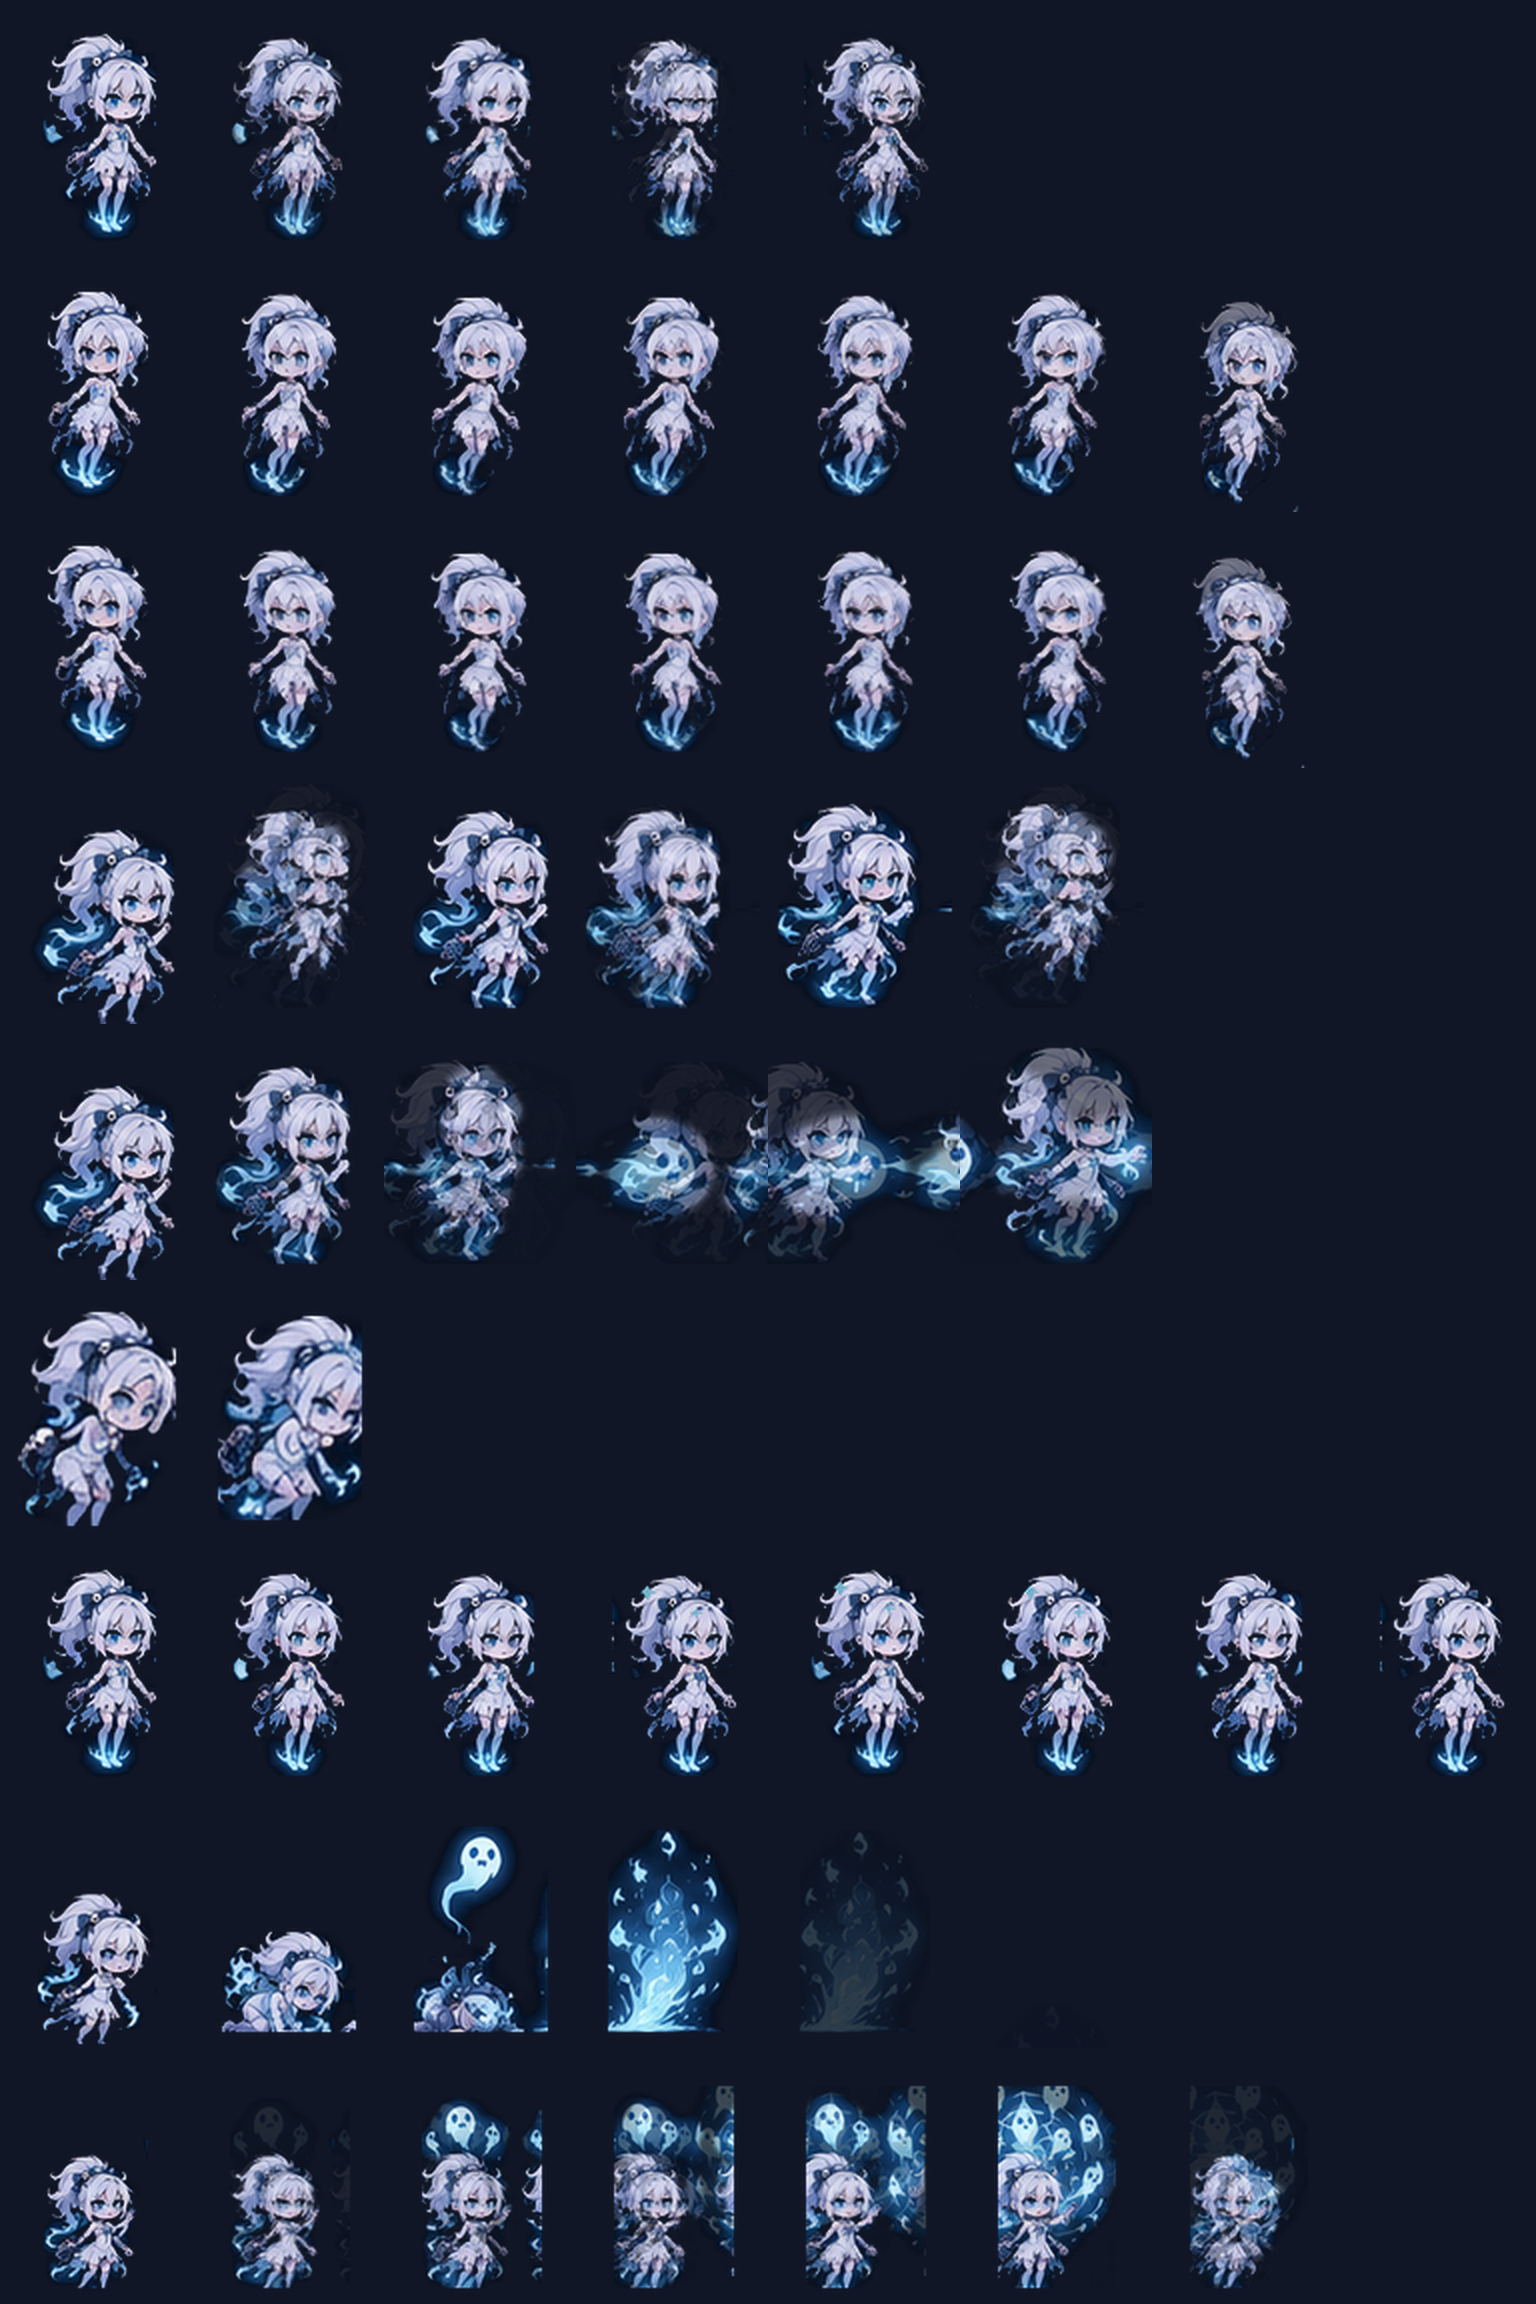
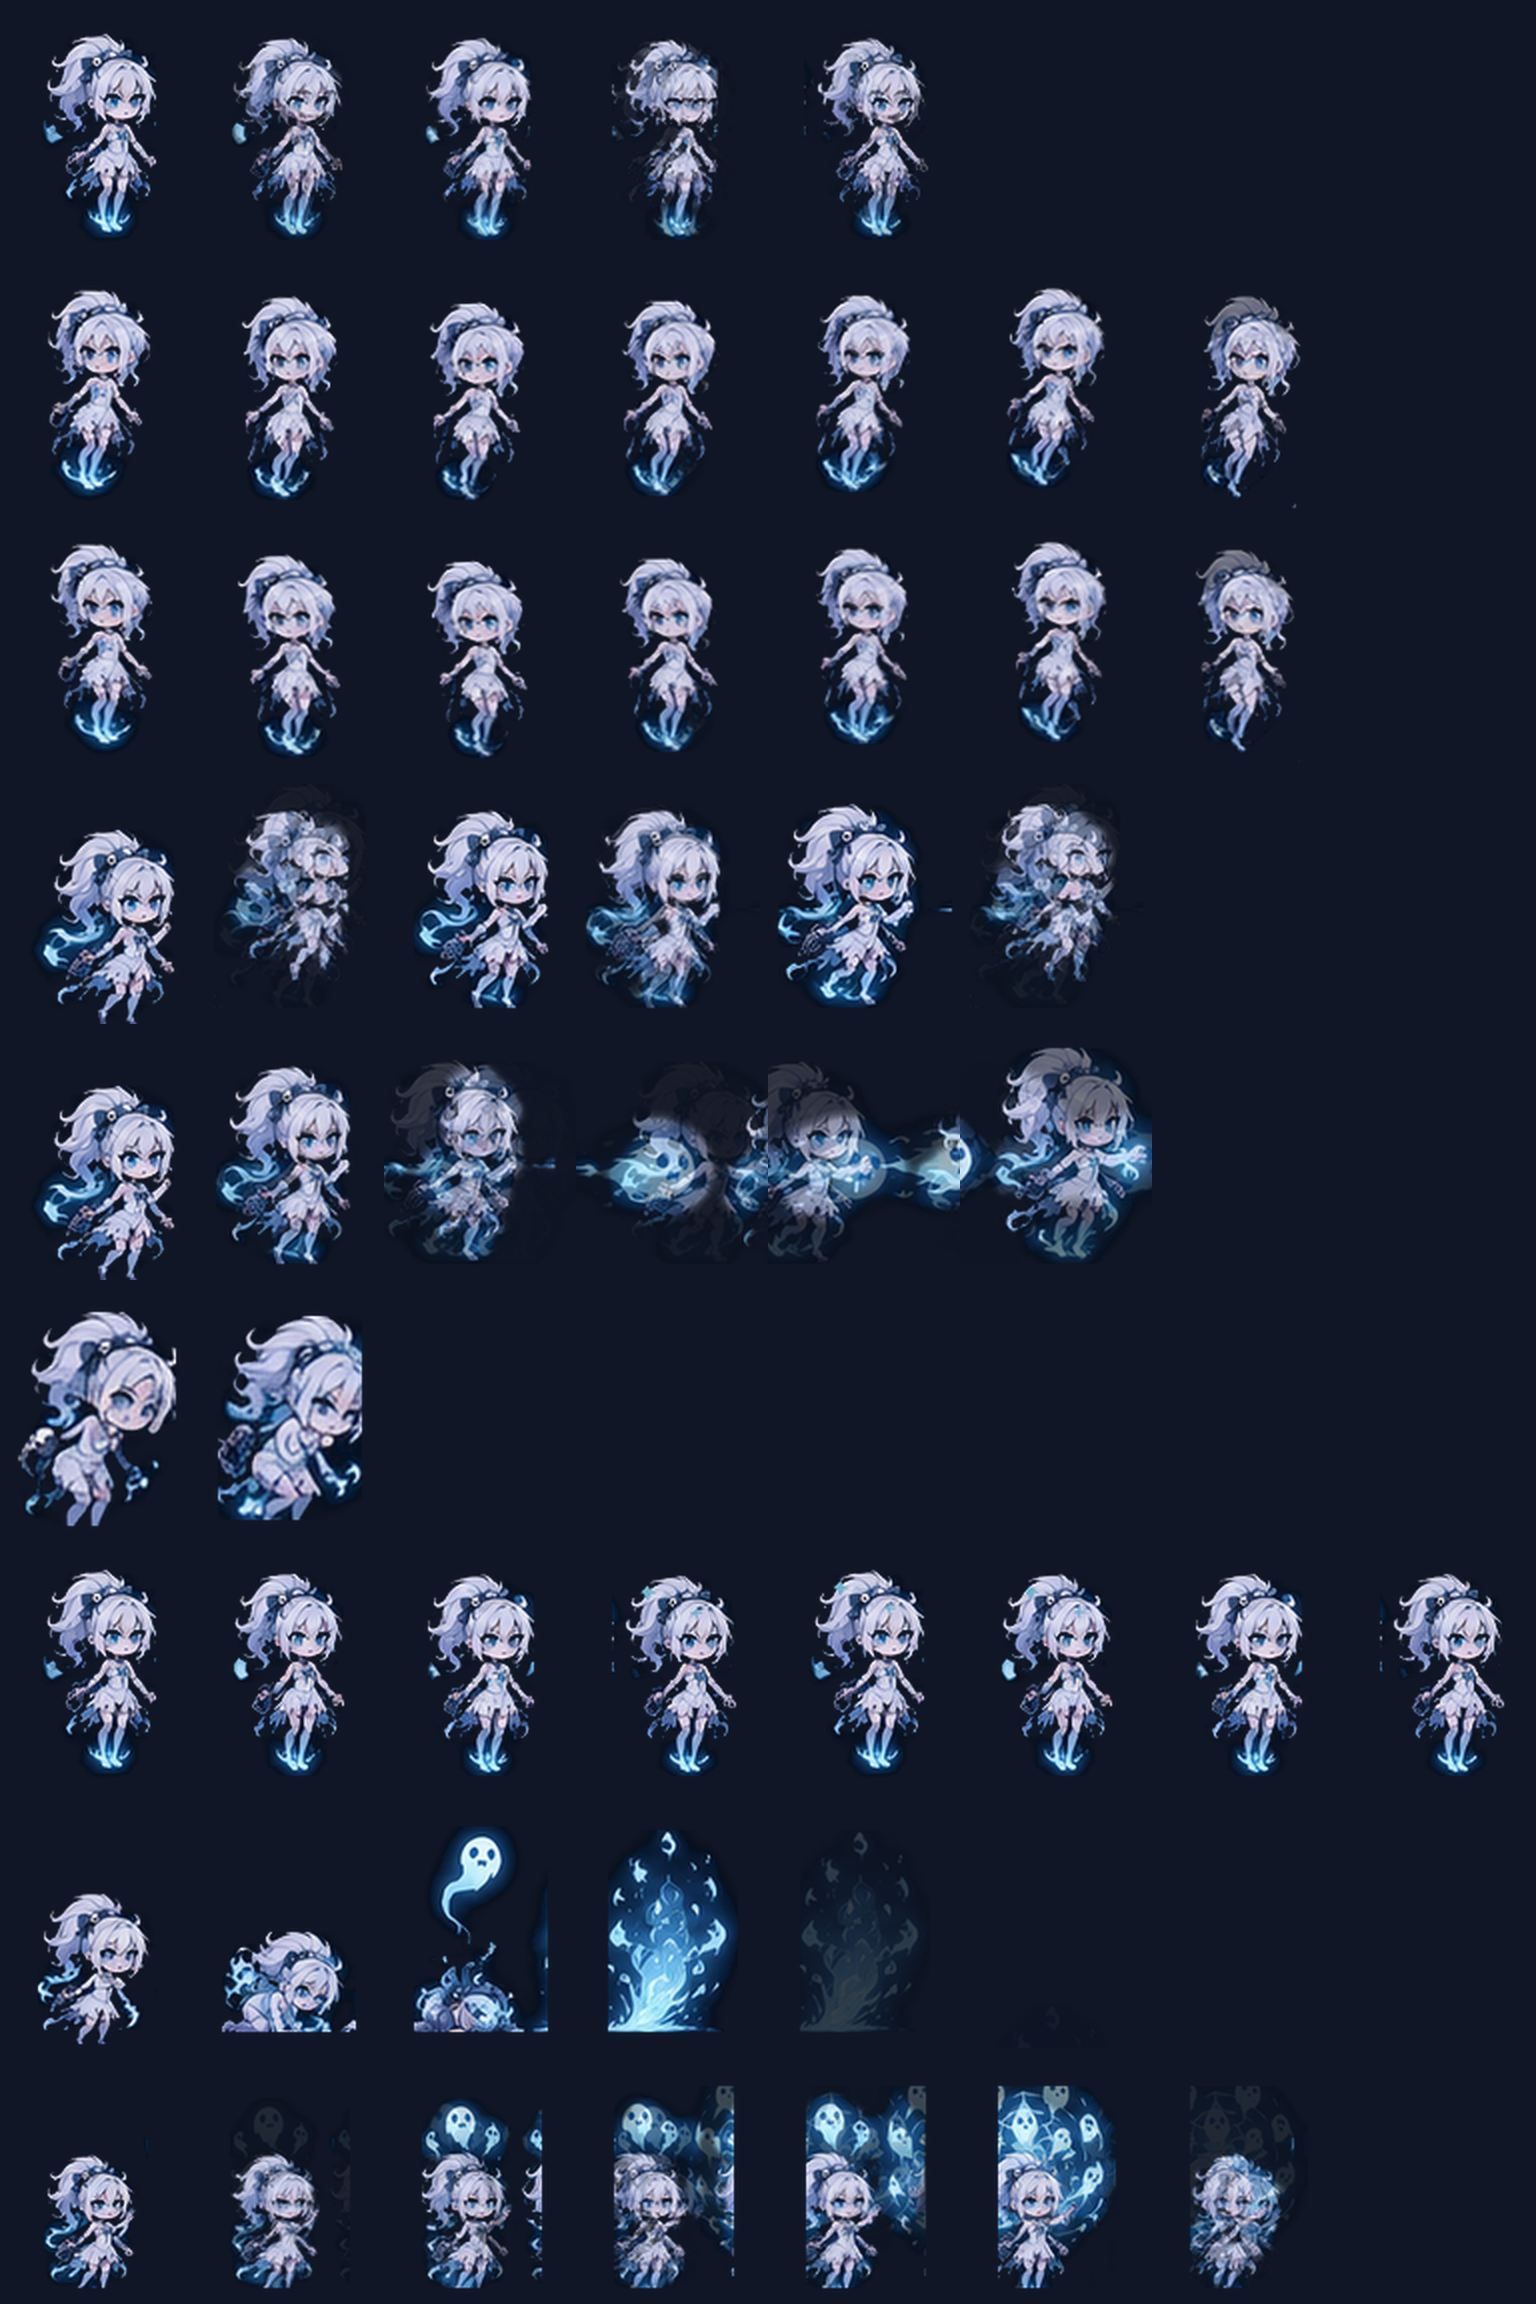
Improve Lilith spectral hover animation frames

diff --git a/tools/build_character_sheet.py b/tools/build_character_sheet.py
@@ -295,7 +295,7 @@ def motion_of(frames: list[Image.Image]) -> list[tuple[int, int]]:
 
 
 def build_sheet(state: str, front: list[Image.Image], views: dict,
-                scale: float, rows: list) -> Image.Image:
+                scale: float, rows: list, character_id: str = "") -> Image.Image:
     n = STATE_FRAMES[state]
     motion = motion_of(front)
     atlas = Image.new("RGBA", (n * CELL_W, 8 * CELL_H), (0, 0, 0, 0))
@@ -324,6 +324,28 @@ def build_sheet(state: str, front: list[Image.Image], views: dict,
             if k:
                 sprite = shear_image(sprite, k, ground_row(sprite))
             cell = ground(sprite)
+            if character_id == "lilith" and state in ("walk", "run"):
+                # Lilith travels as a spirit: animate a buoyant hover cycle,
+                # not a footfall. Transform the complete cut-out around its
+                # visual centre so the spectral tail rises and falls with her.
+                phase = 2.0 * math.pi * i / max(1, n)
+                amplitude = 3.6 if state == "run" else 2.7
+                bob = int(round(math.sin(phase) * amplitude))
+                sway = int(round(math.sin(phase + math.pi / 2.0) * (1.8 if state == "run" else 1.2)))
+                angle = math.sin(phase) * (3.2 if state == "run" else 2.2)
+                factor = 1.0 + math.sin(phase + math.pi / 2.0) * (0.022 if state == "run" else 0.016)
+                cell = cell.rotate(angle, resample=Image.Resampling.BICUBIC,
+                                   center=(CELL_W // 2, CELL_H // 2), expand=False)
+                if abs(factor - 1.0) > 0.001:
+                    scaled = cell.resize((int(CELL_W * factor), int(CELL_H * factor)),
+                                         Image.Resampling.LANCZOS)
+                    fitted = Image.new("RGBA", (CELL_W, CELL_H), (0, 0, 0, 0))
+                    fitted.alpha_composite(scaled, ((CELL_W - scaled.width) // 2,
+                                                    (CELL_H - scaled.height) // 2))
+                    cell = fitted
+                floated = Image.new("RGBA", (CELL_W, CELL_H), (0, 0, 0, 0))
+                floated.alpha_composite(cell, (sway, bob))
+                cell = floated
             atlas.paste(cell, (i * CELL_W, row * CELL_H), cell)
     return atlas
 
@@ -372,7 +394,7 @@ def main() -> None:
 
     for state in STATE_FRAMES:
         front = build_state_frames(norm, state, cfg, STATE_PLAN[character_id])
-        atlas = build_sheet(state, front, norm_views, scale, ROWS[character_id])
+        atlas = build_sheet(state, front, norm_views, scale, ROWS[character_id], character_id)
         path = os.path.join(out_dir, "%s_sheet.png" % state)
         atlas.save(path)
         print("[sheet] wrote %s_sheet.png %dx%d" % (state, atlas.width, atlas.height))
